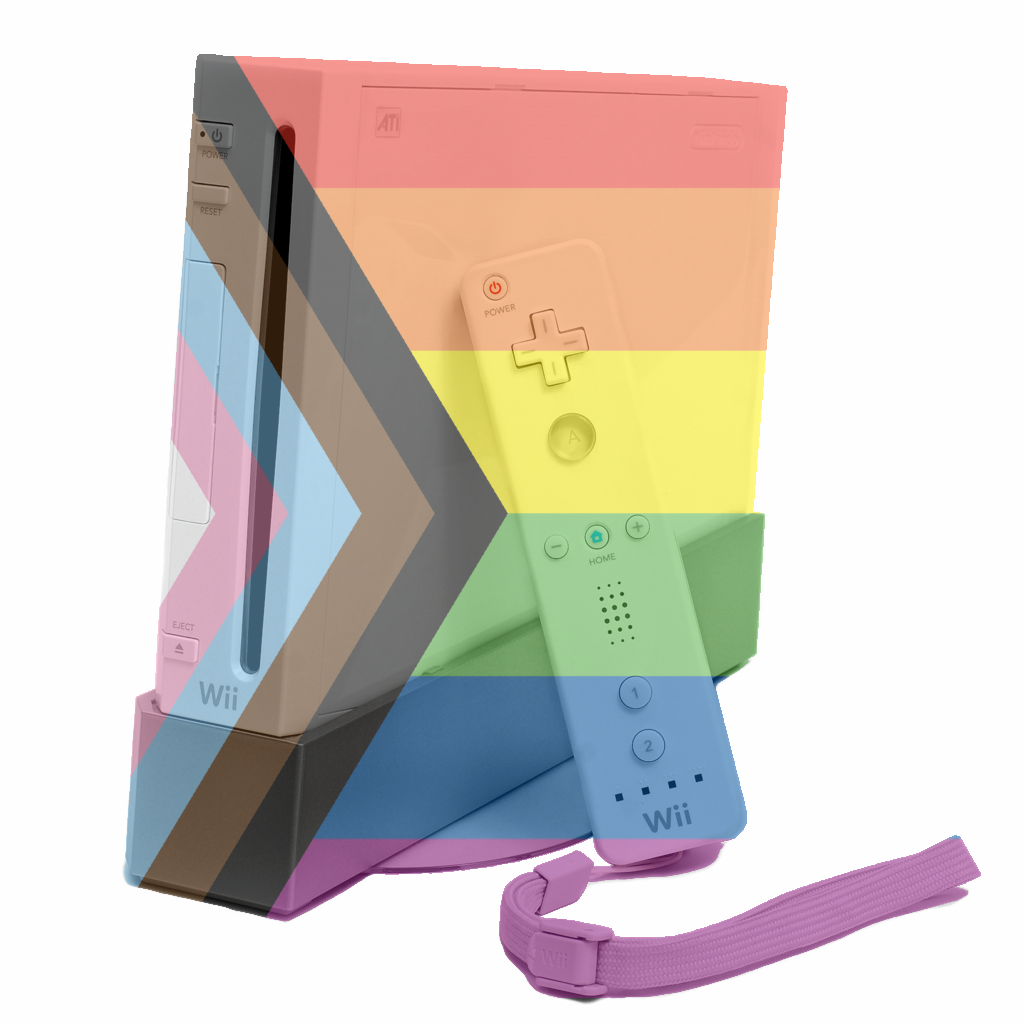
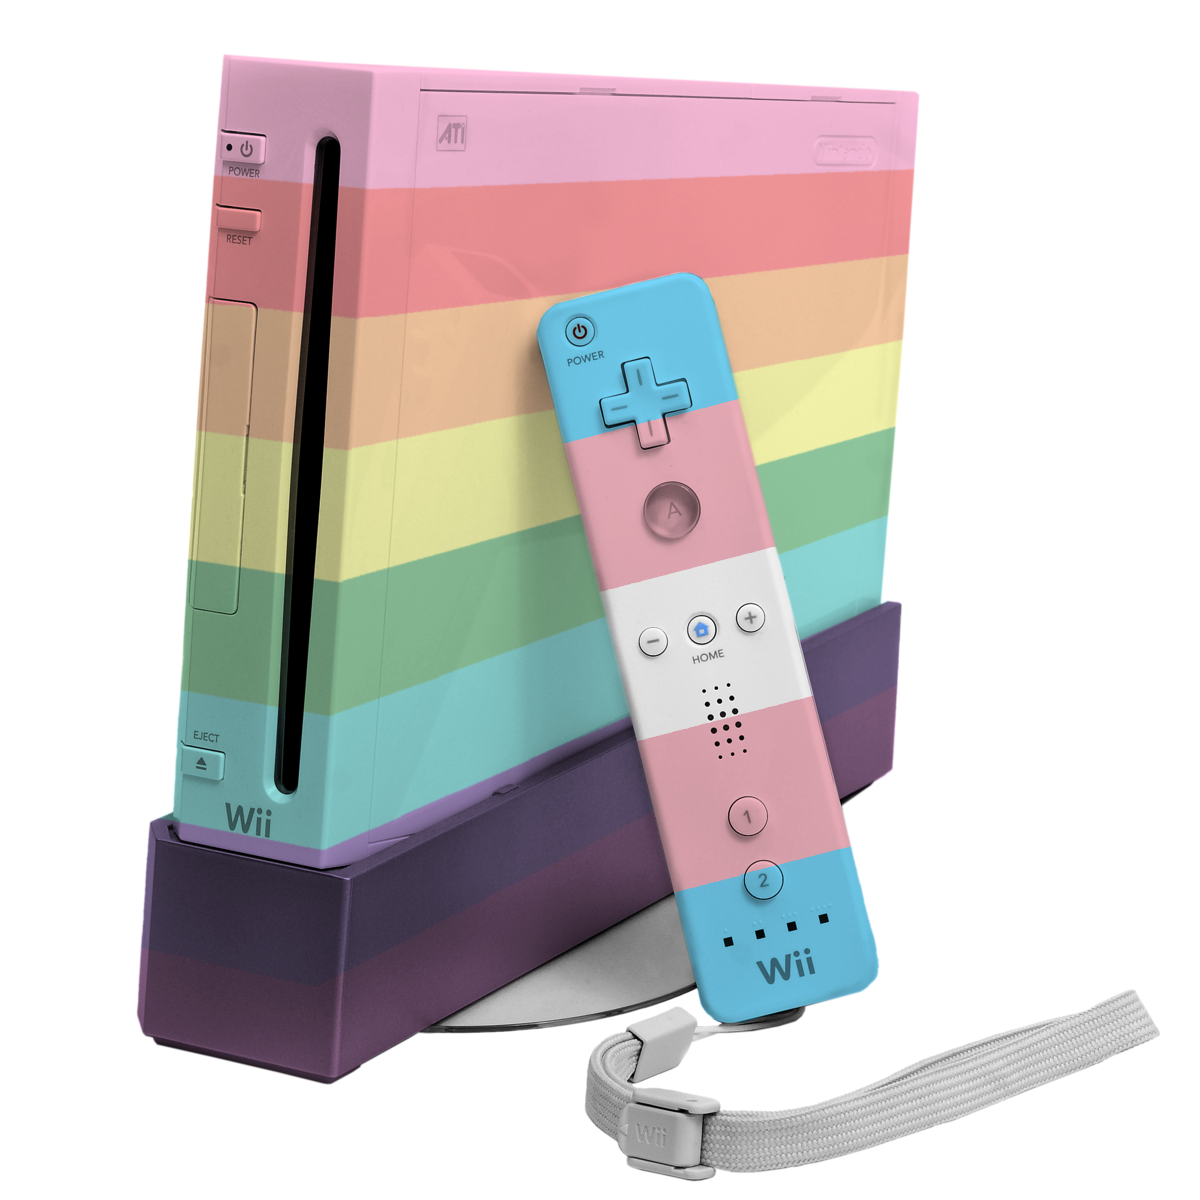
Minor update
Added embed metadata, changed gay wii image to the one my friend audrey made. (old gay wii still available under new filename), updated favicon to reflect this

diff --git a/index.html b/index.html
@@ -1,6 +1,35 @@
 <!DOCTYPE html>
 <html lang="en">
 
+<head>
+    <!-- Primary Meta Tags -->
+    <meta charset="utf-8">
+	<meta name="viewport" content="width=device-width, initial-scale=1">
+	<meta name="author" content="Lise Gay">
+	<meta name="robots" content="index, follow">
+	<meta name="rating" content="general">
+
+    <title>Lise's silly lil' homepage</title>
+    <meta name="title" content="Lise's silly lil' homepage" />
+    <meta name="description" content="Just a homepage for your local transgender furry zoomer" />
+    <meta name="theme-color" content="#C39FF0">
+
+    <!-- Open Graph / Facebook -->
+    <meta property="og:type" content="website" />
+    <meta property="og:url" content="http://www.wii.gay/" />
+    <meta property="og:title" content="Lise's silly lil' homepage" />
+    <meta property="og:description" content="Just a homepage for your local transgender furry zoomer" />
+    <meta property="og:image" content="banner.png" />
+
+    <!-- Twitter -->
+    <meta property="twitter:card" content="summary_large_image" />
+    <meta property="twitter:url" content="http://www.wii.gay/" />
+    <meta property="twitter:title" content="Lise's silly lil' homepage" />
+    <meta property="twitter:description" content="Just a homepage for your local transgender furry zoomer" />
+    <meta property="twitter:image" content="banner.png" />
+
+</head>
+
 <style>
 	p
 	{
@@ -32,7 +61,7 @@
     
     
     
-    <img src="gay_wii.png" alt="An image of a Nintendo Wii console and Wii Remote, with the progress pride flag overlayed on it" width="300" height="300" title="a gay wii, get it?">
+    <img src="gay_wii.png" alt="An image of a Nintendo Wii console and Wii Remote. The console has the Gilber Baker pride flag overlayed on it, and the remote has the transgender pride flag." width="300" height="300" title="a gay wii, get it? (edit by my friend Audrey)">
     <a href="flash.html"><img src="flashbang 64.png" alt="A Really Small Flashbang" style="width:32px;height:32px;position:absolute;left:10px;top:1000px;"></a>
     </body>
 </html>
